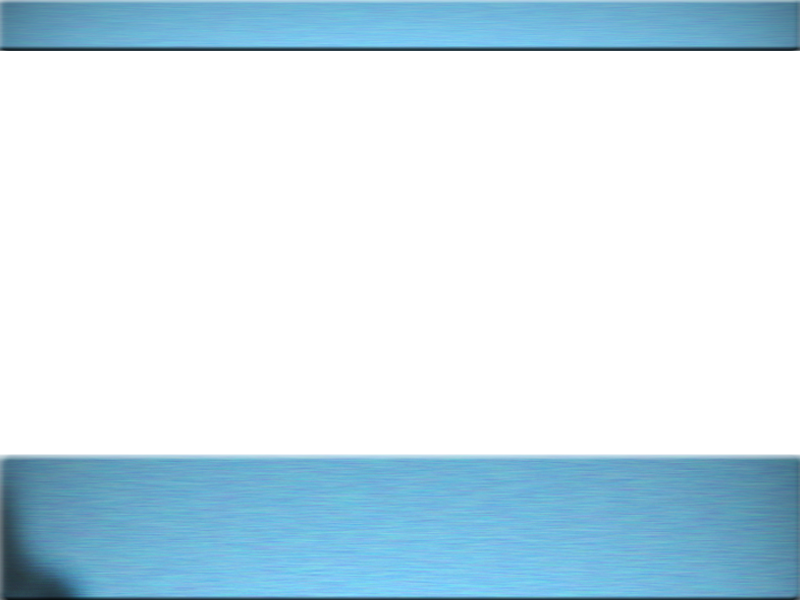
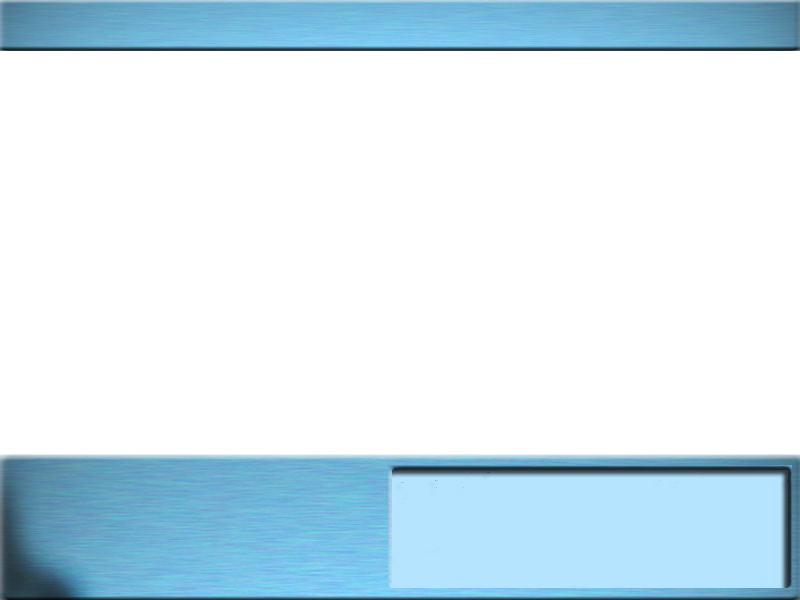
Battle Changed

Changed region(s): [[0.4688, 0.75, 1.0, 0.99]]

diff --git a/Code/Components/BattleHandler.cs b/Code/Components/BattleHandler.cs
@@ -22,9 +22,15 @@ namespace VOiD.Components
         public static int AttackSelection = 0;
         public static bool AttackSelected = false;
 
+        private static string _lastPlayerMove;
+        private static string _lastEnemyMove;
+
+        private Texture2D background;
+
         public BattleHandler(Game game)
             : base(game)
         {
+            background = game.Content.Load<Texture2D>("Interface/Assets/Battle/background");
         }
 
         public override void Initialize()
@@ -50,7 +56,8 @@ namespace VOiD.Components
                     if (AttackSelected)
                     {
                         B.Health -= (int)GameHandler.Player.AvailableAttacks[AttackSelection].Damage;
-                        Console.WriteLine("Player Used - " + GameHandler.Player.AvailableAttacks[AttackSelection].Name);
+                        _lastPlayerMove = "You attack with a " + GameHandler.Player.AvailableAttacks[AttackSelection].Name
+                            + "\ndealing " + GameHandler.Player.AvailableAttacks[AttackSelection].Damage + " points of damage!";
                         Console.WriteLine("AI Health - " + B.Health);
                         PlayerMove = false;
                         AttackSelected = false;
@@ -59,8 +66,8 @@ namespace VOiD.Components
                 else if (GameHandler.Player.Health > 0)
                 {
                     int AttackPatternSigma = random.Next(B.AvailableAttacks.Count);
+                    _lastEnemyMove = "Enemy attacks with a " + B.AvailableAttacks[AttackPatternSigma].Name + "\ndealing " + B.AvailableAttacks[AttackPatternSigma].Damage + " points of damage!";
                     GameHandler.Player.Health -= (int)B.AvailableAttacks[AttackPatternSigma].Damage;
-                    Console.WriteLine("AI Used - " + B.AvailableAttacks[AttackPatternSigma].Name);
                     Console.WriteLine("Player Health - " + GameHandler.Player.Health);
                     PlayerMove = true;
                 }
@@ -92,10 +99,17 @@ namespace VOiD.Components
         {
             if (InSession)
             {
+                SpriteManager.Begin();
+                SpriteManager.Draw(background, Configuration.Bounds, Color.White);
+                SpriteManager.End();
                 GameHandler.Player.Draw(Game.GraphicsDevice, Matrix.CreateRotationY(MathHelper.ToRadians(45.0f)) * Matrix.CreateTranslation(new Vector3(1, 0, -4)));
                 B.Draw(Game.GraphicsDevice, Matrix.CreateRotationY(MathHelper.ToRadians(-45.0f)) * Matrix.CreateTranslation(new Vector3(-1, 0, -4)));
             }
             base.Draw(gameTime);
         }
+
+        public static string LastPlayerMove { get {return _lastPlayerMove; } }
+        public static string LastEnemyMove { get { return _lastEnemyMove; } }
+        public static Creature Enemy { get { return B; } }
     }
 }

diff --git a/Code/Components/GameHandler.cs b/Code/Components/GameHandler.cs
@@ -33,6 +33,8 @@ namespace VOiD.Components
 
         private static Attributes _currentAttributeInUse = Attributes.None;
 
+        private Texture2D exclamationSprite;
+
         const int NUMBER_OF_ITEM_TYPES = 5;
         #endregion
 
@@ -40,6 +42,7 @@ namespace VOiD.Components
             : base(game)
         {
             Inventory = new Inventory(NUMBER_OF_ITEM_TYPES, game.Content);
+            exclamationSprite = game.Content.Load<Texture2D>("Sprites/exclamation");
             Enabled = false;
             Visible = false;
         }
@@ -92,11 +95,9 @@ namespace VOiD.Components
                 
                 Camera.Position = new Vector2((GameHandler.Player.Position.X + (GameHandler.Player.Texture.Width / 2)) - (Configuration.Width / 2),
                                      (GameHandler.Player.Position.Y + (GameHandler.Player.Texture.Height / 2)) - (Configuration.Height / 2));
-                
+
                 if (Interface.currentScreen == Screens.LevelMenu)
-                {
                     HandlePlayerMovement();
-                }
 
                 for (int i = 0; i < Items.Count; i++) // NOT VERY EFFICIENT - MAY NEED REPLACING
                 {
@@ -159,9 +160,7 @@ namespace VOiD.Components
                 base.Update(gameTime);
             }
             else if (EditMode)
-            {
                 HandleCameraMovement();
-            }
         }
 
          public override void Draw(GameTime gameTime)
@@ -174,6 +173,12 @@ namespace VOiD.Components
                     if (Enabled || EditMode)
                     {
                         SpriteManager.Begin(SpriteSortMode.FrontToBack, BlendState.AlphaBlend);
+
+                                                // Check for adjacent sign, show exclamation if so
+                        Sign sign = CheckSign(new Point((int)Player.Position.X + ((int)Player.PreviousDirection.X * TileMap.TileWidth),
+                                 (int)Player.Position.Y + ((int)Player.PreviousDirection.Y * TileMap.TileHeight)));
+                        if (sign != null)
+                            SpriteManager.Draw(exclamationSprite, Camera.Transform(GameHandler.Player.Position - new Vector2(0, exclamationSprite.Height)), null, Color.White, 0f, Vector2.Zero, 1f, SpriteEffects.None, 1f);
 
                         if (!EditMode)
                             Player.Draw();

diff --git a/Code/Components/Interface.cs b/Code/Components/Interface.cs
@@ -212,6 +212,15 @@ namespace VOiD.Components
                         temp = "Focus: -";
                 }
 
+                // Player CURRENT Health
+                if (component.Text == "@PlayerCurrentHealth")
+                    temp = Convert.ToString(GameHandler.Player.Health) + "/" + GameHandler.Player.Dominant.Health.Level;
+
+                // Enemy CURRENT Health
+                if (component.Text == "@EnemyCurrentHealth")
+                    temp = Convert.ToString(BattleHandler.Enemy.Health) + "/" + BattleHandler.Enemy.Dominant.Health.Level;
+
+
                 // Selected Item
                 if (GameHandler.Inventory.SelectedItem != null)
                 {
@@ -223,10 +232,24 @@ namespace VOiD.Components
 
                 // Sign text
                 if (component.Text == "@CurrentSignText")
-                {
                     temp = GameHandler.CurrentSignText;
+
+                // Battle text
+                if (component.Text == "@LastPlayerMove")
+                {
+                    if (BattleHandler.LastPlayerMove != null)
+                        temp = BattleHandler.LastPlayerMove;
+                    else
+                        temp = " ";
                 }
 
+                if (component.Text == "@LastEnemyMove")
+                {
+                    if (BattleHandler.LastEnemyMove != null)
+                        temp = BattleHandler.LastEnemyMove;
+                    else
+                        temp = " ";
+                }
             }
             else
                 temp = component.Text;

diff --git a/Code/Level/Entity.cs b/Code/Level/Entity.cs
@@ -86,9 +86,9 @@ namespace VOiD
             if (_texture != null)
             {
                 if(!_animated)
-                    SpriteManager.Draw(_texture, Camera.Transform(_position), null, Color.White, 0f, Vector2.Zero, 1f, SpriteEffects.None, 1f);
+                    SpriteManager.Draw(_texture, Camera.Transform(_position), null, Color.White, 0f, Vector2.Zero, 1f, SpriteEffects.None, 0.9f);
                 else
-                    SpriteManager.Draw(_texture, Camera.Transform(_position), _frameRect, Color.White, 0f, Vector2.Zero, 1f, SpriteEffects.None, 1f);
+                    SpriteManager.Draw(_texture, Camera.Transform(_position), _frameRect, Color.White, 0f, Vector2.Zero, 1f, SpriteEffects.None, 0.9f);
             }
         }
 
